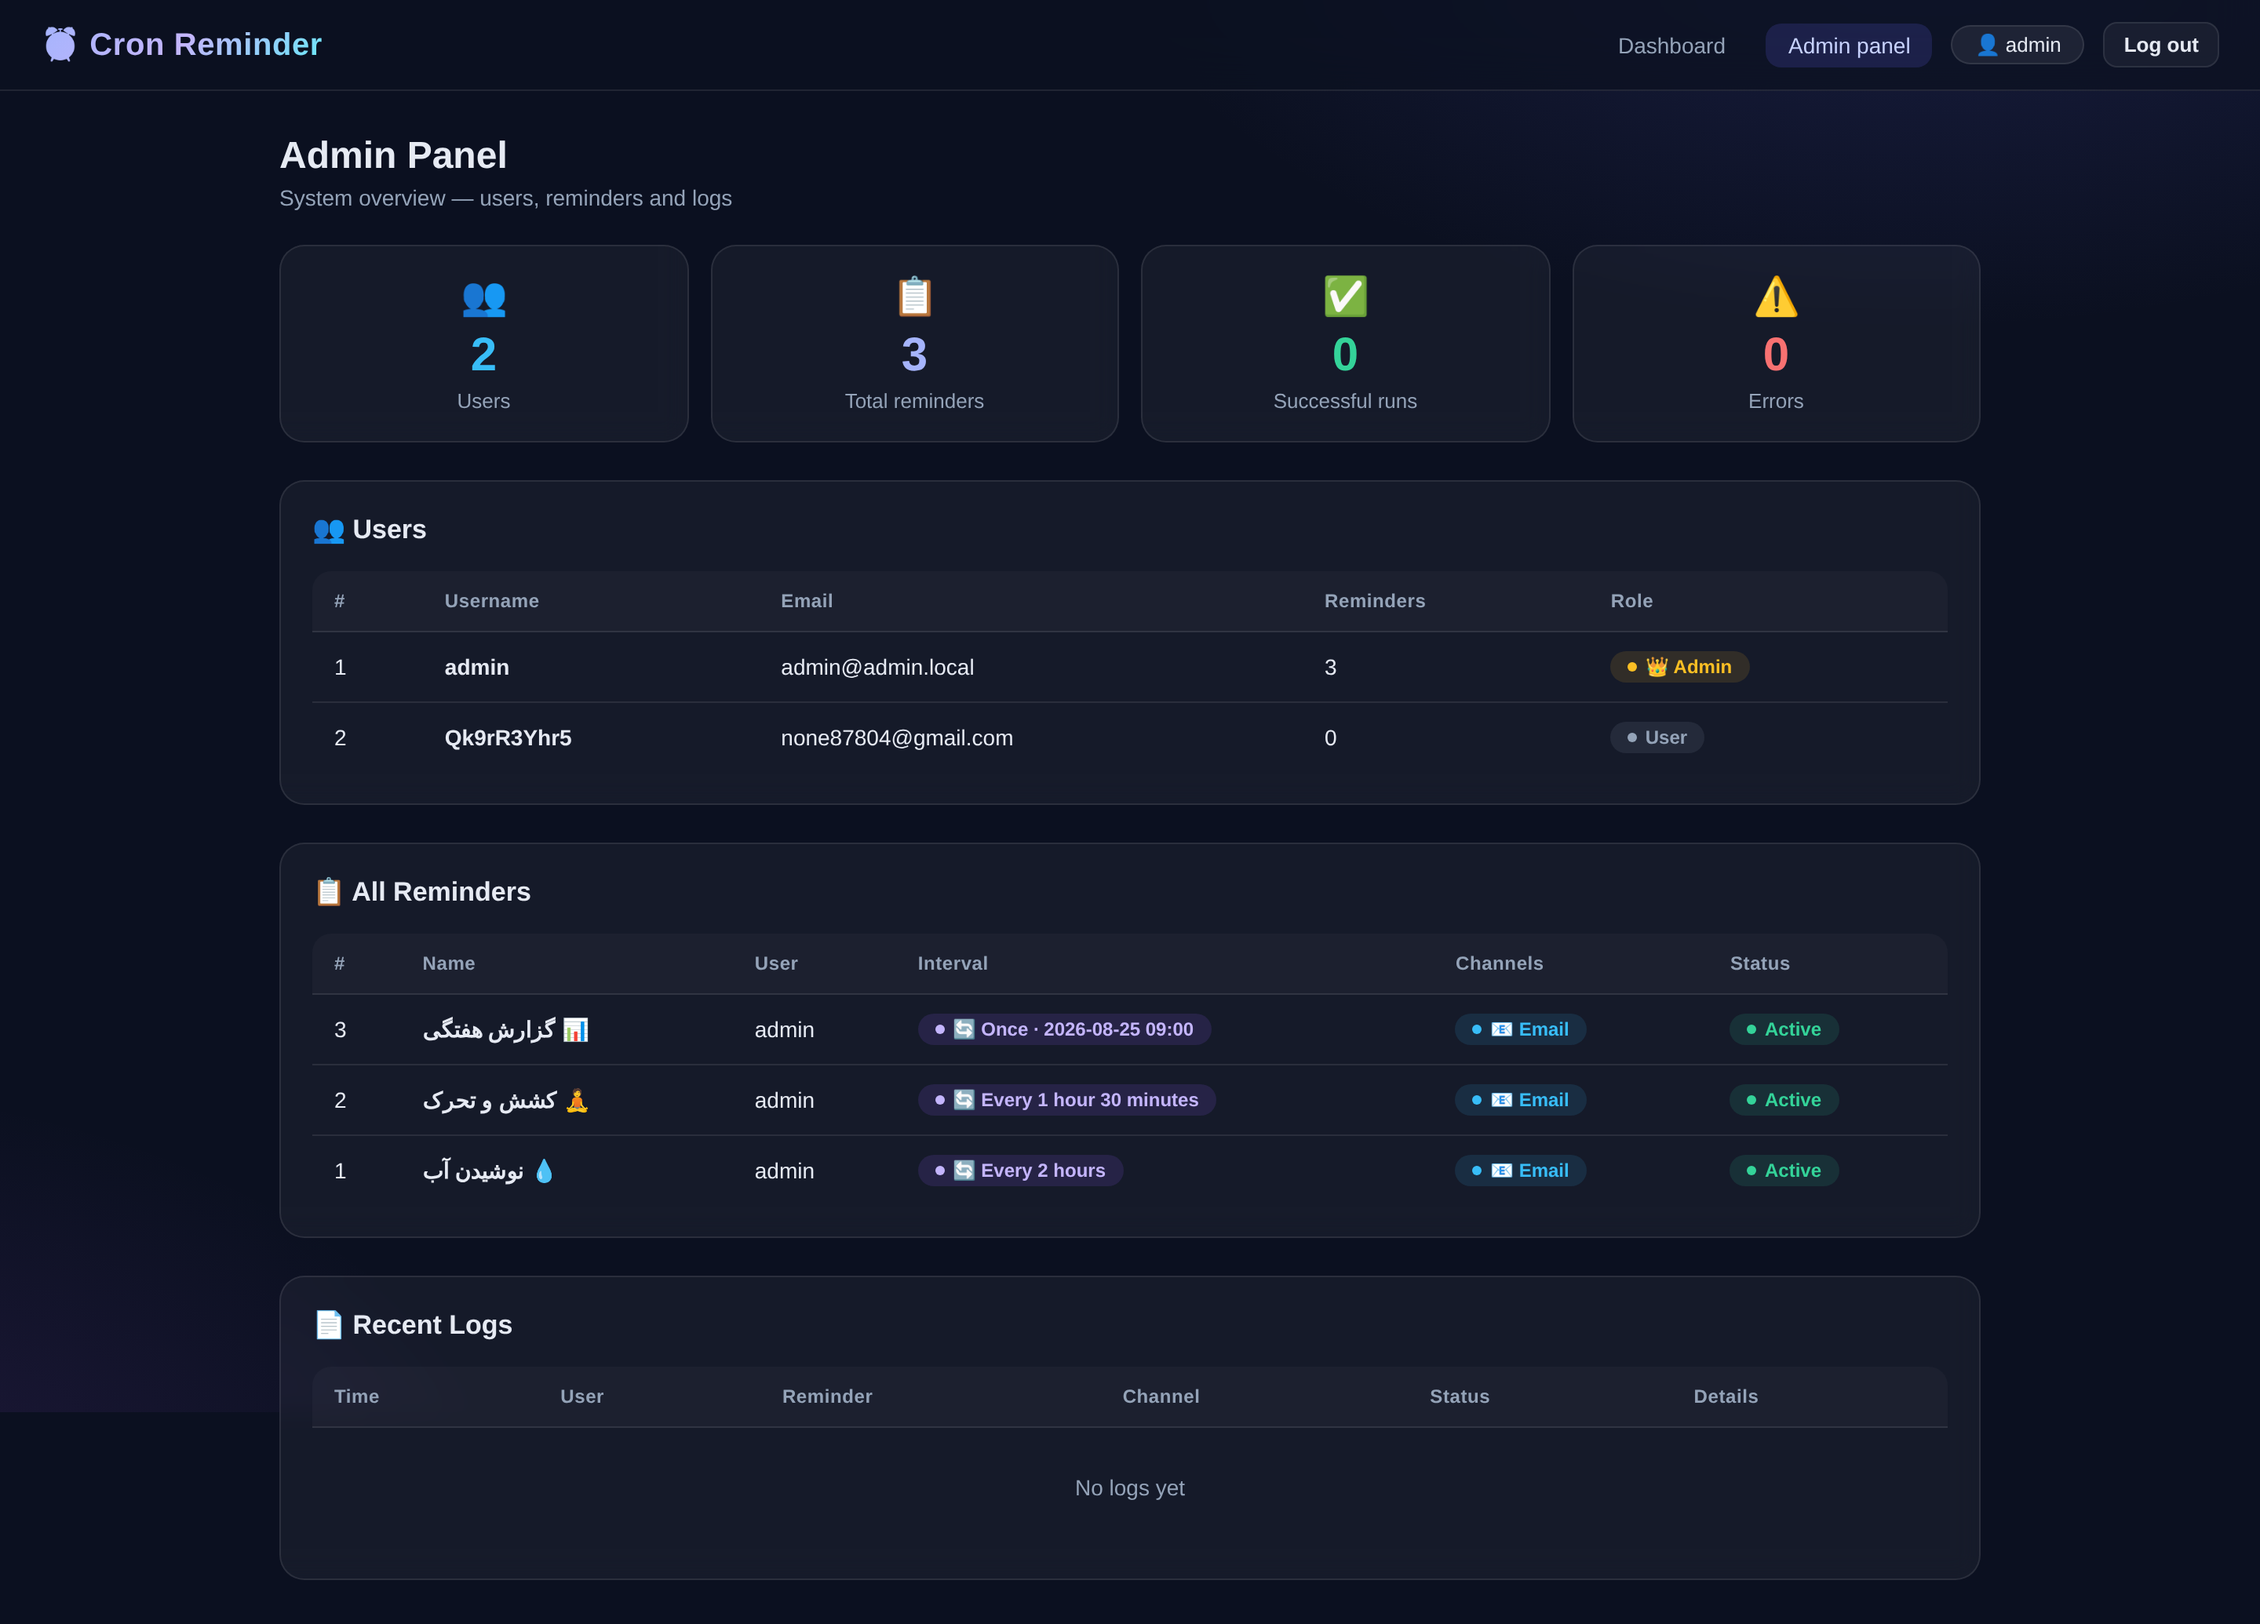
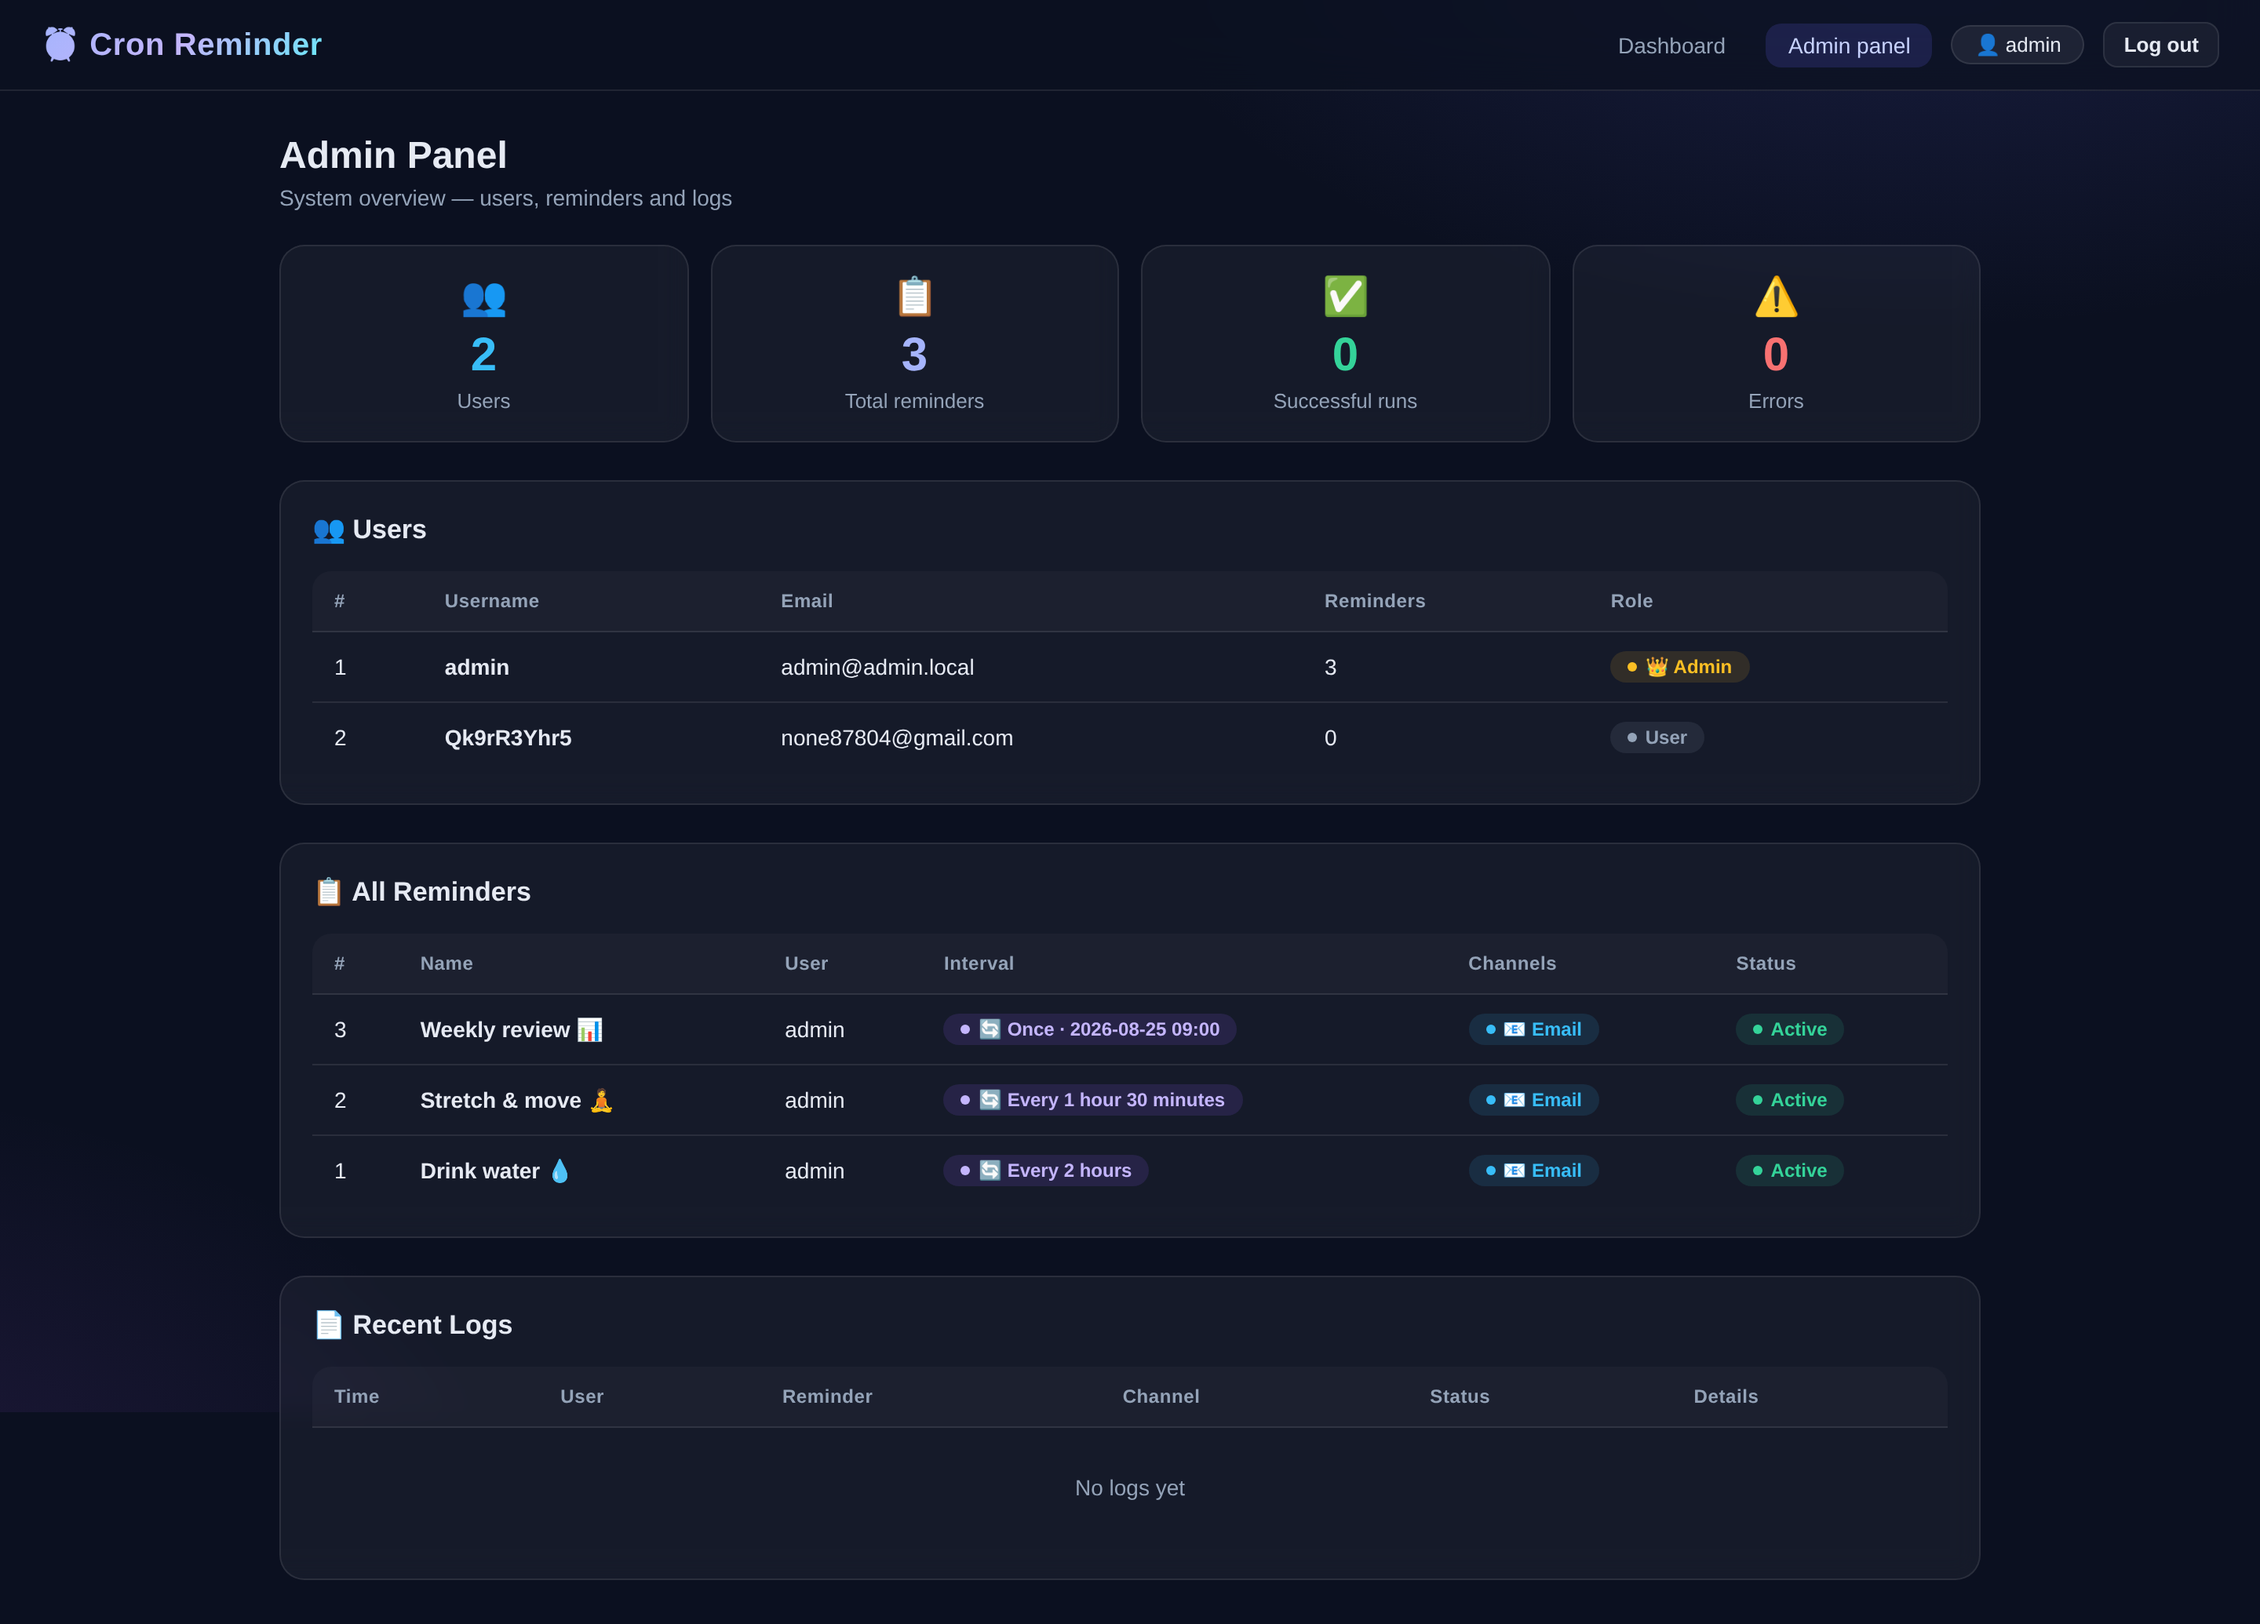
Translate remaining API error messages to English; regenerate all screenshots in English

diff --git a/app/auth.py b/app/auth.py
@@ -70,17 +70,17 @@ def get_current_user(
 ) -> User:
     token = request.cookies.get("session")
     if not token:
-        raise HTTPException(401, "لطفاً ابتدا وارد شوید")
+        raise HTTPException(401, "Please log in first")
     sess = db.query(AuthSession).filter(AuthSession.token == token).first()
     if not sess:
-        raise HTTPException(401, "نشست نامعتبر است")
+        raise HTTPException(401, "Invalid session")
     user = db.get(User, sess.user_id)
     if not user:
-        raise HTTPException(401, "کاربر یافت نشد")
+        raise HTTPException(401, "User not found")
     return user
 
 
 def require_admin(user: User = Depends(get_current_user)) -> User:
     if not user.is_admin:
-        raise HTTPException(403, "دسترسی ادمین لازم است")
+        raise HTTPException(403, "Admin access required")
     return user
